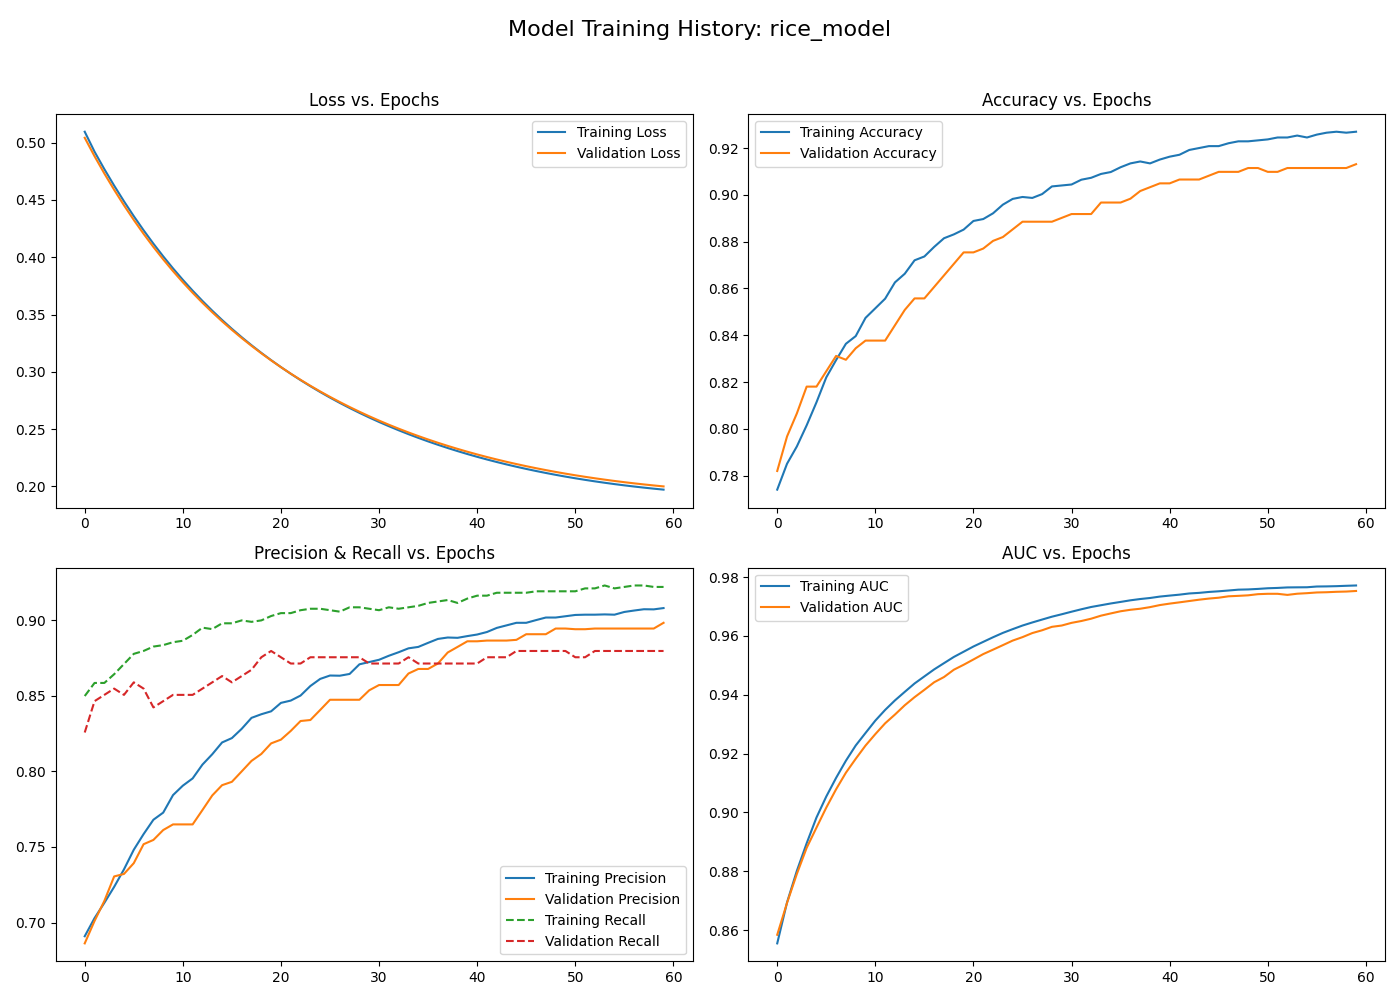
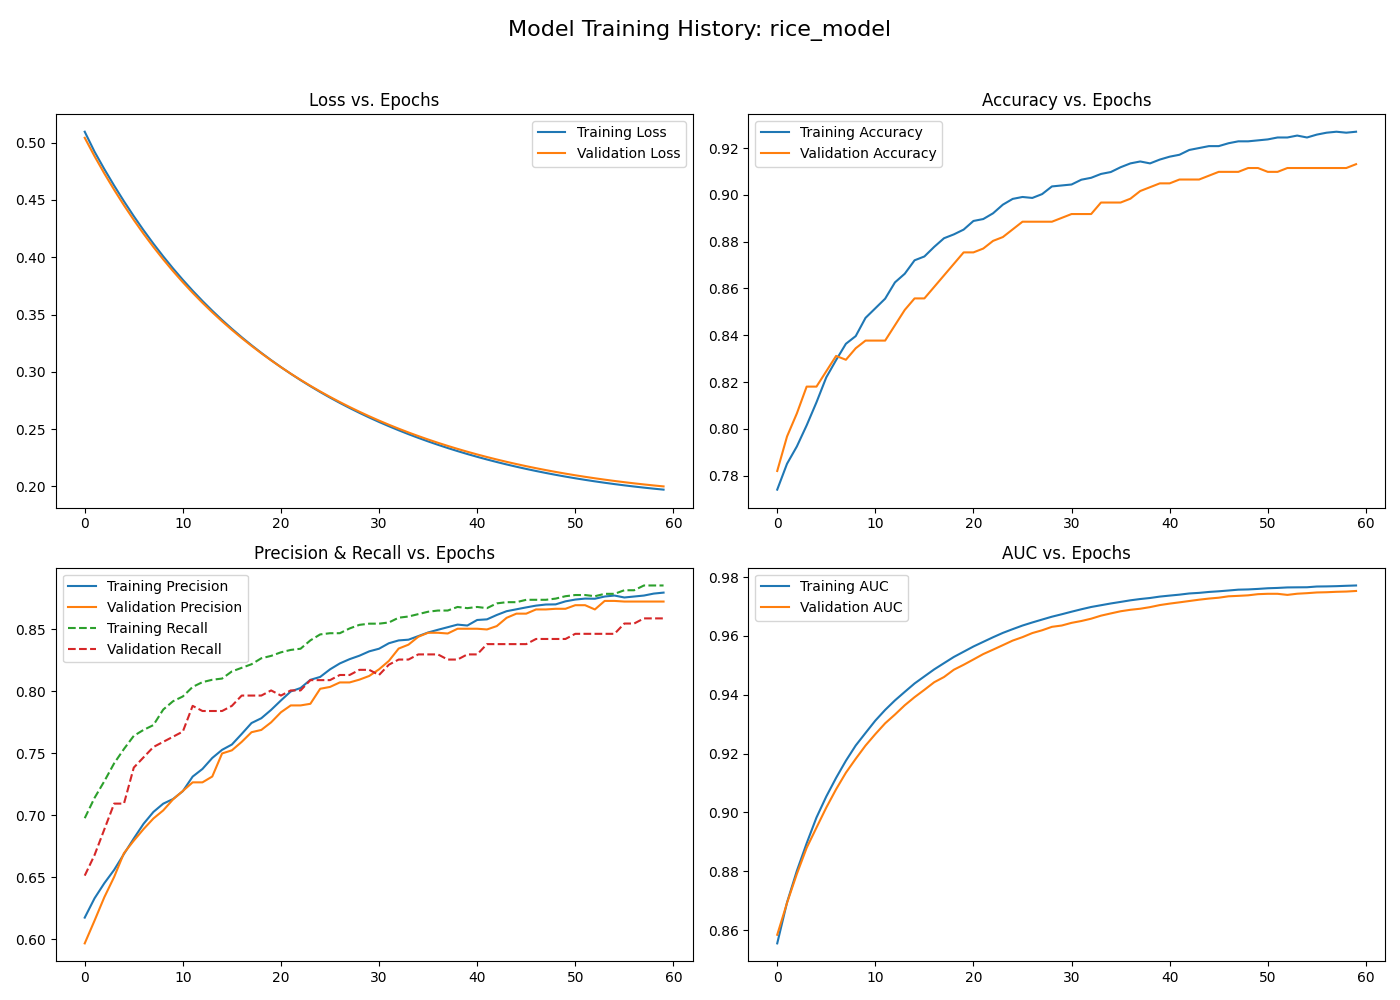
refactory

diff --git a/src/common/keras_utils.py b/src/common/keras_utils.py
@@ -44,7 +44,9 @@ def create_linear_regression_model(
 
 def create_binary_classification_model(
     input_features: List[str],
-    learning_rate: float
+    learning_rate: float,
+    metrics_thresholds: Dict[str, float],
+    auc_num_thresholds: int,
 ) -> keras.Model:
     """Create and compile a simple Keras binary classification model."""
     print("\n--- Creating Keras binary classification model ---")
@@ -58,10 +60,10 @@ def create_binary_classification_model(
         optimizer=keras.optimizers.RMSprop(learning_rate=learning_rate),
         loss=keras.losses.BinaryCrossentropy(),
         metrics=[
-            keras.metrics.BinaryAccuracy(name='accuracy', threshold=0.5),
-            keras.metrics.Precision(name='precision', thresholds=0.5),
-            keras.metrics.Recall(name='recall', thresholds=0.5),
-            keras.metrics.AUC(num_thresholds=100, name='auc'),
+            keras.metrics.BinaryAccuracy(name='accuracy', threshold=metrics_thresholds.get('accuracy', 0.5)),
+            keras.metrics.Precision(name='precision', thresholds=metrics_thresholds.get('precision', 0.5)),
+            keras.metrics.Recall(name='recall', thresholds=metrics_thresholds.get('recall', 0.5)),
+            keras.metrics.AUC(num_thresholds=auc_num_thresholds, name='auc'),
         ],
     )
     

diff --git a/src/binary_classification_rice_2/logistic_regression_trainer.py b/src/binary_classification_rice_2/logistic_regression_trainer.py
@@ -27,7 +27,9 @@ class LogisticRegressionTrainer(BaseTrainer):
         """Builds the Keras binary classification model."""
         self.model = keras_utils.create_binary_classification_model(
             input_features=self.settings.input_features,
-            learning_rate=self.settings.learning_rate
+            learning_rate=self.settings.learning_rate,
+            metrics_thresholds=self.settings.metrics_thresholds,
+            auc_num_thresholds=self.settings.auc_num_thresholds
         )
 
     def evaluate(self, test_df: pd.DataFrame):
@@ -55,7 +57,10 @@ class LogisticRegressionTrainer(BaseTrainer):
             observed_col_name="OBSERVED_CLASS",
             error_col_name="PREDICTION_ERROR"
         )
-        all_predictions_df["PREDICTED_CLASS"] = (all_predictions_df["PREDICTED_PROBABILITY"] > 0.5).astype(int)
+        # For final classification, use the threshold defined for 'accuracy'
+        # as the decision boundary. Default to 0.5 if not specified.
+        threshold = self.settings.metrics_thresholds.get('accuracy', 0.5)
+        all_predictions_df["PREDICTED_CLASS"] = (all_predictions_df["PREDICTED_PROBABILITY"] > threshold).astype(int)
         
         prediction_utils.show_predictions(
             all_predictions_df.head(10), 

diff --git a/src/binary_classification_rice_2/rice_training.py b/src/binary_classification_rice_2/rice_training.py
@@ -28,6 +28,11 @@ MODEL_CONFIGS = {
         batch_size=100,
         input_features=['Eccentricity', 'Major_Axis_Length', 'Area'],
         verbose=1,
+        metrics_thresholds={
+            'accuracy': 0.5,
+            'precision': 0.4,
+            'recall': 0.6,
+        },
     ),
 }
 
@@ -36,12 +41,11 @@ def main():
     # 1. Argument Parsing
     parser = argparse.ArgumentParser(description="Train a specified classification model.")
     parser.add_argument(
-        "model_type",
+        "--model-type",
         type=str,
         choices=MODEL_CONFIGS.keys(),
         default="rice_model",
-        nargs='?',
-        help=f"The type of model to train. Choose from: {list(MODEL_CONFIGS.keys())}",
+        help=f"The type of model to train. Defaults to 'rice_model'. Options: {list(MODEL_CONFIGS.keys())}",
     )
     args = parser.parse_args()
     model_type = args.model_type

diff --git a/src/common/types.py b/src/common/types.py
@@ -2,7 +2,7 @@
 """Common type definitions and data classes for the project."""
 
 import dataclasses
-from typing import List
+from typing import List, Dict
 
 import keras
 import pandas as pd
@@ -15,6 +15,10 @@ class ExperimentSettings:
   number_epochs: int
   batch_size: int
   input_features: List[str]
+  metrics_thresholds: Dict[str, float] = dataclasses.field(
+      default_factory=lambda: {'accuracy': 0.5, 'precision': 0.5, 'recall': 0.5}
+  )
+  auc_num_thresholds: int = 100
   verbose: int = 1
 
 
